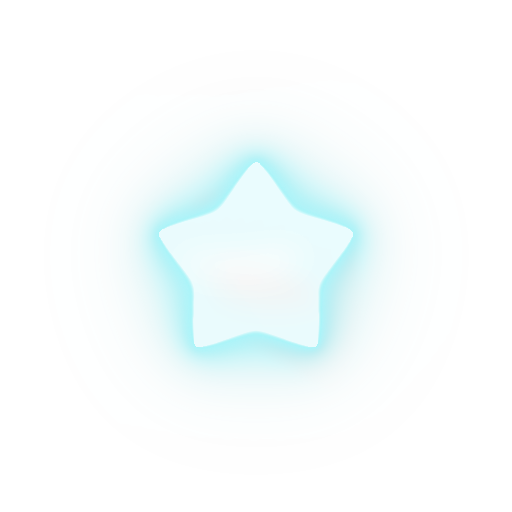
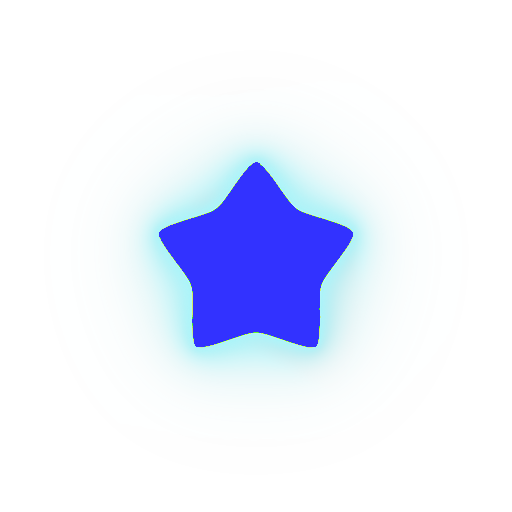
atualizacao game

Changed region(s): [[0.3125, 0.3125, 0.6875, 0.6875]]

diff --git a/src/game.js b/src/game.js
@@ -6,7 +6,7 @@ import hud from "./hud"; // Importa a função hud para exibir mensagens na tela
 import { loadAudio, loadImage } from "./loaderAssets"; // Importa funções para carregar áudio e imagens
 
 const FRAMES = 70; // Taxa de quadros por segundo
-let energiaImg, energia, dragao, tangerineImg, tangerine; // Variáveis para a energia, Herói e Tangerina
+let energiaImg, energia, dragao, starImg, star; // Variáveis para a energia, Herói e Tangerina
 const POINTS_FOR_YELLOWBALL = 50; // Pontos por coletar a tangerina
 const POINTS_FOR_ENERGIA = 10; // Pontos por acertar a energia
 let enemies = Array.from({ length: 2 }); // Array para armazenar inimigos
@@ -23,9 +23,9 @@ const init = async () => {
     ctx = canvas.getContext('2d'); // Obtém o contexto de renderização 2D
 
     // Carrega imagens e sons
-    backgroundImg = await loadImage('img/background_game_dragon.png');
+    backgroundImg = await loadImage('img/background_game.png');
     energiaImg = await loadImage('img/fogo.png');
-    tangerineImg = await loadImage('img/star.png');
+    starImg = await loadImage('img/star.png');
     scoreSound = await loadAudio('sounds/star.mp3');
     scoreSound.volume = .5;
     energiaSound = await loadAudio('sounds/energia.mp3');
@@ -45,13 +45,13 @@ const init = async () => {
     // Instancia os objetos do jogo
     energia = new Energia(300, 200, 20, 5, energiaImg);
     dragao = new Dragao(300, 200, 8, 82, 89, FRAMES);
-    tangerine = {
+    star = {
         x: 200,
         y: 200,
         width: 40, // Largura da imagem da tangerina
         height: 40, // Altura da imagem da tangerina
         draw: function(ctx) {
-            ctx.drawImage(tangerineImg, this.x, this.y, this.width, this.height);
+            ctx.drawImage(starImg, this.x, this.y, this.width, this.height);
         },
         restart: function() {
             // Garante que a tangerina fique dentro dos limites do canvas
@@ -72,7 +72,7 @@ const init = async () => {
 const start = () => {
     let startInterval = setInterval(() => {
         ctx.clearRect(0, 0, canvas.width, canvas.height);
-        hud(ctx, `Pressione ENTER para começar!! `, "red", canvas.height / 2 - 50);
+        hud(ctx, `Pressione ENTER para começar!! `, "red",  canvas.height / 2 - 50);
         if (key === 'Enter') {
             themeSound.play();
             clearInterval(startInterval);
@@ -87,12 +87,26 @@ const updateScoreTable = () => {
 };
 
 // Exibe mensagem de fim de jogo
-const displayGameOverMessage = () => {
-    document.getElementById('game-over-message').textContent = `GAME OVER!! Você fez ${score} pontos`;
-    document.getElementById('restart-message').textContent = `Pressione F5 para reiniciar!`;
+const displayGameOver = () => {
+    ctx.fillStyle = 'rgba(0, 0, 0, 0.7)'; // Fundo semi-transparente para destacar a mensagem
+    ctx.fillRect(0, 0, canvas.width, canvas.height); // Desenha o fundo da mensagem ocupando toda a tela
+
+    ctx.fillStyle = 'white'; // Cor do texto
+    ctx.font = 'bold 48px CustomFont'; // Define a fonte e o tamanho
+    ctx.textAlign = 'center'; // Centraliza o texto horizontalmente
+    ctx.textBaseline = 'middle'; // Centraliza o texto verticalmente
+
+    // Desenha o texto principal
+    ctx.fillText(`GAME OVER`, canvas.width / 2, canvas.height / 2 - 50);
+
+    // Fonte e tamanho para a mensagem de reinício
+    ctx.font = '24px CustomFont'; 
+    ctx.fillText(`Pressione F5 para reiniciar!`, canvas.width / 2, canvas.height / 2 + 0);
 };
 
-const colideTangerine = (colisao, rect) => {
+
+
+const colideStar = (colisao, rect) => {
     const distX = Math.abs(colisao.x + colisao.width / 2 - rect.x - rect.width / 2);
     const distY = Math.abs(colisao.y + colisao.height / 2 - rect.y - rect.height / 2);
 
@@ -132,7 +146,7 @@ const loop = () => {
         ctx.drawImage(backgroundImg, 0, 0, canvas.width, canvas.height);
 
         // Desenha a tangerina
-        tangerine.draw(ctx);
+        star.draw(ctx);
 
         // Desenha e move a energia
         energia.paint(ctx);
@@ -151,8 +165,8 @@ const loop = () => {
         });
 
         // Lógica para quando o herói ou o energia colidem com a tangerina
-        if (colideTangerine(dragao, tangerine) || energia.colide(tangerine)) {
-            tangerine.restart();
+        if (colideStar(dragao, star) || energia.colide(star)) {
+            star.restart();
             dragao.grow(10);
             playScoreSound(); // Reproduz o som de pontuação
             score += POINTS_FOR_YELLOWBALL;
@@ -174,7 +188,7 @@ const loop = () => {
 
         // Lógica para o fim de jogo
         if (gameover) {
-            displayGameOverMessage();
+            displayGameOver();
             gameoverSound.play();
             themeSound.pause();
             cancelAnimationFrame(anime); // Para a animação do jogo

diff --git a/src/styles/style.css b/src/styles/style.css
@@ -13,7 +13,7 @@ body {
     display: flex;
     justify-content: center;
     align-items: center;
-    height: 80vh;
+    height: 100vh;
     background-color: #000;
     position: relative;
     font-family: 'CustomFont', sans-serif;
@@ -22,31 +22,23 @@ body {
 .container {
     display: flex;
     flex-direction: column;
-    align-items: center; /* Centraliza horizontalmente */
+    align-items: center;
 }
 
 header {
     color: rgb(216, 52, 52);
     font-family: 'TituloFont';
     font-size: 56px;
-    text-align: center; /* Centraliza o texto */
-}
-
-canvas {
-    border: 4px solid #ac0f0f; 
+    text-align: center;
+    margin-top: -15%;
 }
 
 #score-table {
-    position: absolute;
-    top: 140px;
-    right: 350px; 
+    font-family: 'Arial';
+    margin-top: -20%; /* Ajusta o espaço entre o título e o score */
     color: white;
     padding: 10px;
-}
-
-#score-table h2 {
-    margin: 0;
-    font-size: 18px;
+    text-align: center;
 }
 
 #score-table p {
@@ -54,9 +46,12 @@ canvas {
     font-size: 24px;
 }
 
+canvas {
+    border: 4px solid #ac0f0f; 
+}
+
 #messages {
     position: absolute;
-    top: 110%;
     left: 50%;
     transform: translate(-50%, -50%);
     color: rgb(155, 158, 152);
@@ -68,16 +63,30 @@ canvas {
     font-size: 20px;
 }
 
-#controls {
+#controls-container {
+    font-family: 'Arial';
+    font-size: 16px;
     position: absolute;
-    bottom: 200px; /* Ajuste a posição conforme necessário */
-    left: 10%;
+    top: 2%;
+    left: 8%;
     transform: translateX(-50%);
-    background-color: rgba(0, 0, 0, 0.7); /* Fundo semi-transparente */
+    text-align: center;
+}
+
+#toggle-controls {
+    cursor: pointer;
+    color: rgb(255, 255, 255);
+    text-decoration: underline;
+}
+
+#controls {
+    display: none; /* Esconde a seção de Controles por padrão */
+    background-color: rgba(0, 0, 0, 0.7);
     color: white;
     padding: 15px;
     border-radius: 10px;
     text-align: center;
+    margin-top: 10px;
 }
 
 #controls h2 {

diff --git a/index.html b/index.html
@@ -13,10 +13,10 @@
     <div class="container">
         <header>
             <h1>Dragon Quest</h1>
+            <div id="score-table">
+                <p id="score">Score: 0</p>
+            </div>  
         </header>
-        <div id="score-table">
-            <p id="score">Score: 0</p>
-        </div>    
         <canvas width="900" height="500" tabindex="1">
             Seu navegador não suporta a tag canvas!
         </canvas>
@@ -24,13 +24,29 @@
             <p id="game-over-message"></p>
             <p id="restart-message"></p>
         </div>
-        <div id="controls">
-            <h2>Controles</h2>
-            <p><strong>W:</strong> Mover para cima</p>
-            <p><strong>A:</strong> Mover para a esquerda</p>
-            <p><strong>S:</strong> Mover para baixo</p>
-            <p><strong>D:</strong> Mover para a direita</p>
+        <div id="controls-container">
+            <h2 id="toggle-controls">Tutorial</h2>
+            <div id="controls">
+                <h2>Controles</h2>
+                <p><strong>W:</strong> Mover para cima</p>
+                <p><strong>A:</strong> Mover para a esquerda</p>
+                <p><strong>S:</strong> Mover para baixo</p>
+                <p><strong>D:</strong> Mover para a direita</p>
+            </div>
         </div>
     </div>
+
+    <script>
+        document.getElementById('toggle-controls').addEventListener('click', function() {
+            const controls = document.getElementById('controls');
+            if (controls.style.display === 'none' || controls.style.display === '') {
+                controls.style.display = 'block';
+                this.textContent = 'Ocultar Tutorial';
+            } else {
+                controls.style.display = 'none';
+                this.textContent = 'Tutorial';
+            }
+        });
+    </script>
 </body>
 </html>

diff --git a/src/hud.js b/src/hud.js
@@ -1,6 +1,5 @@
-const hud = (ctx,texto, color = "#00f",y=0)=>{
-	let textSize = 14;
-	ctx.font = `bold ${textSize}px sans`;
+const hud = (ctx,texto, color = "red",y=0)=>{
+	ctx.font = 'bold 24px Arial';
 	ctx.textBaseline = "top";
 	let textMetric = ctx.measureText(texto)
 	ctx.fillStyle = color;
@@ -10,3 +9,5 @@ const hud = (ctx,texto, color = "#00f",y=0)=>{
 }
 
 export default hud
+
+
